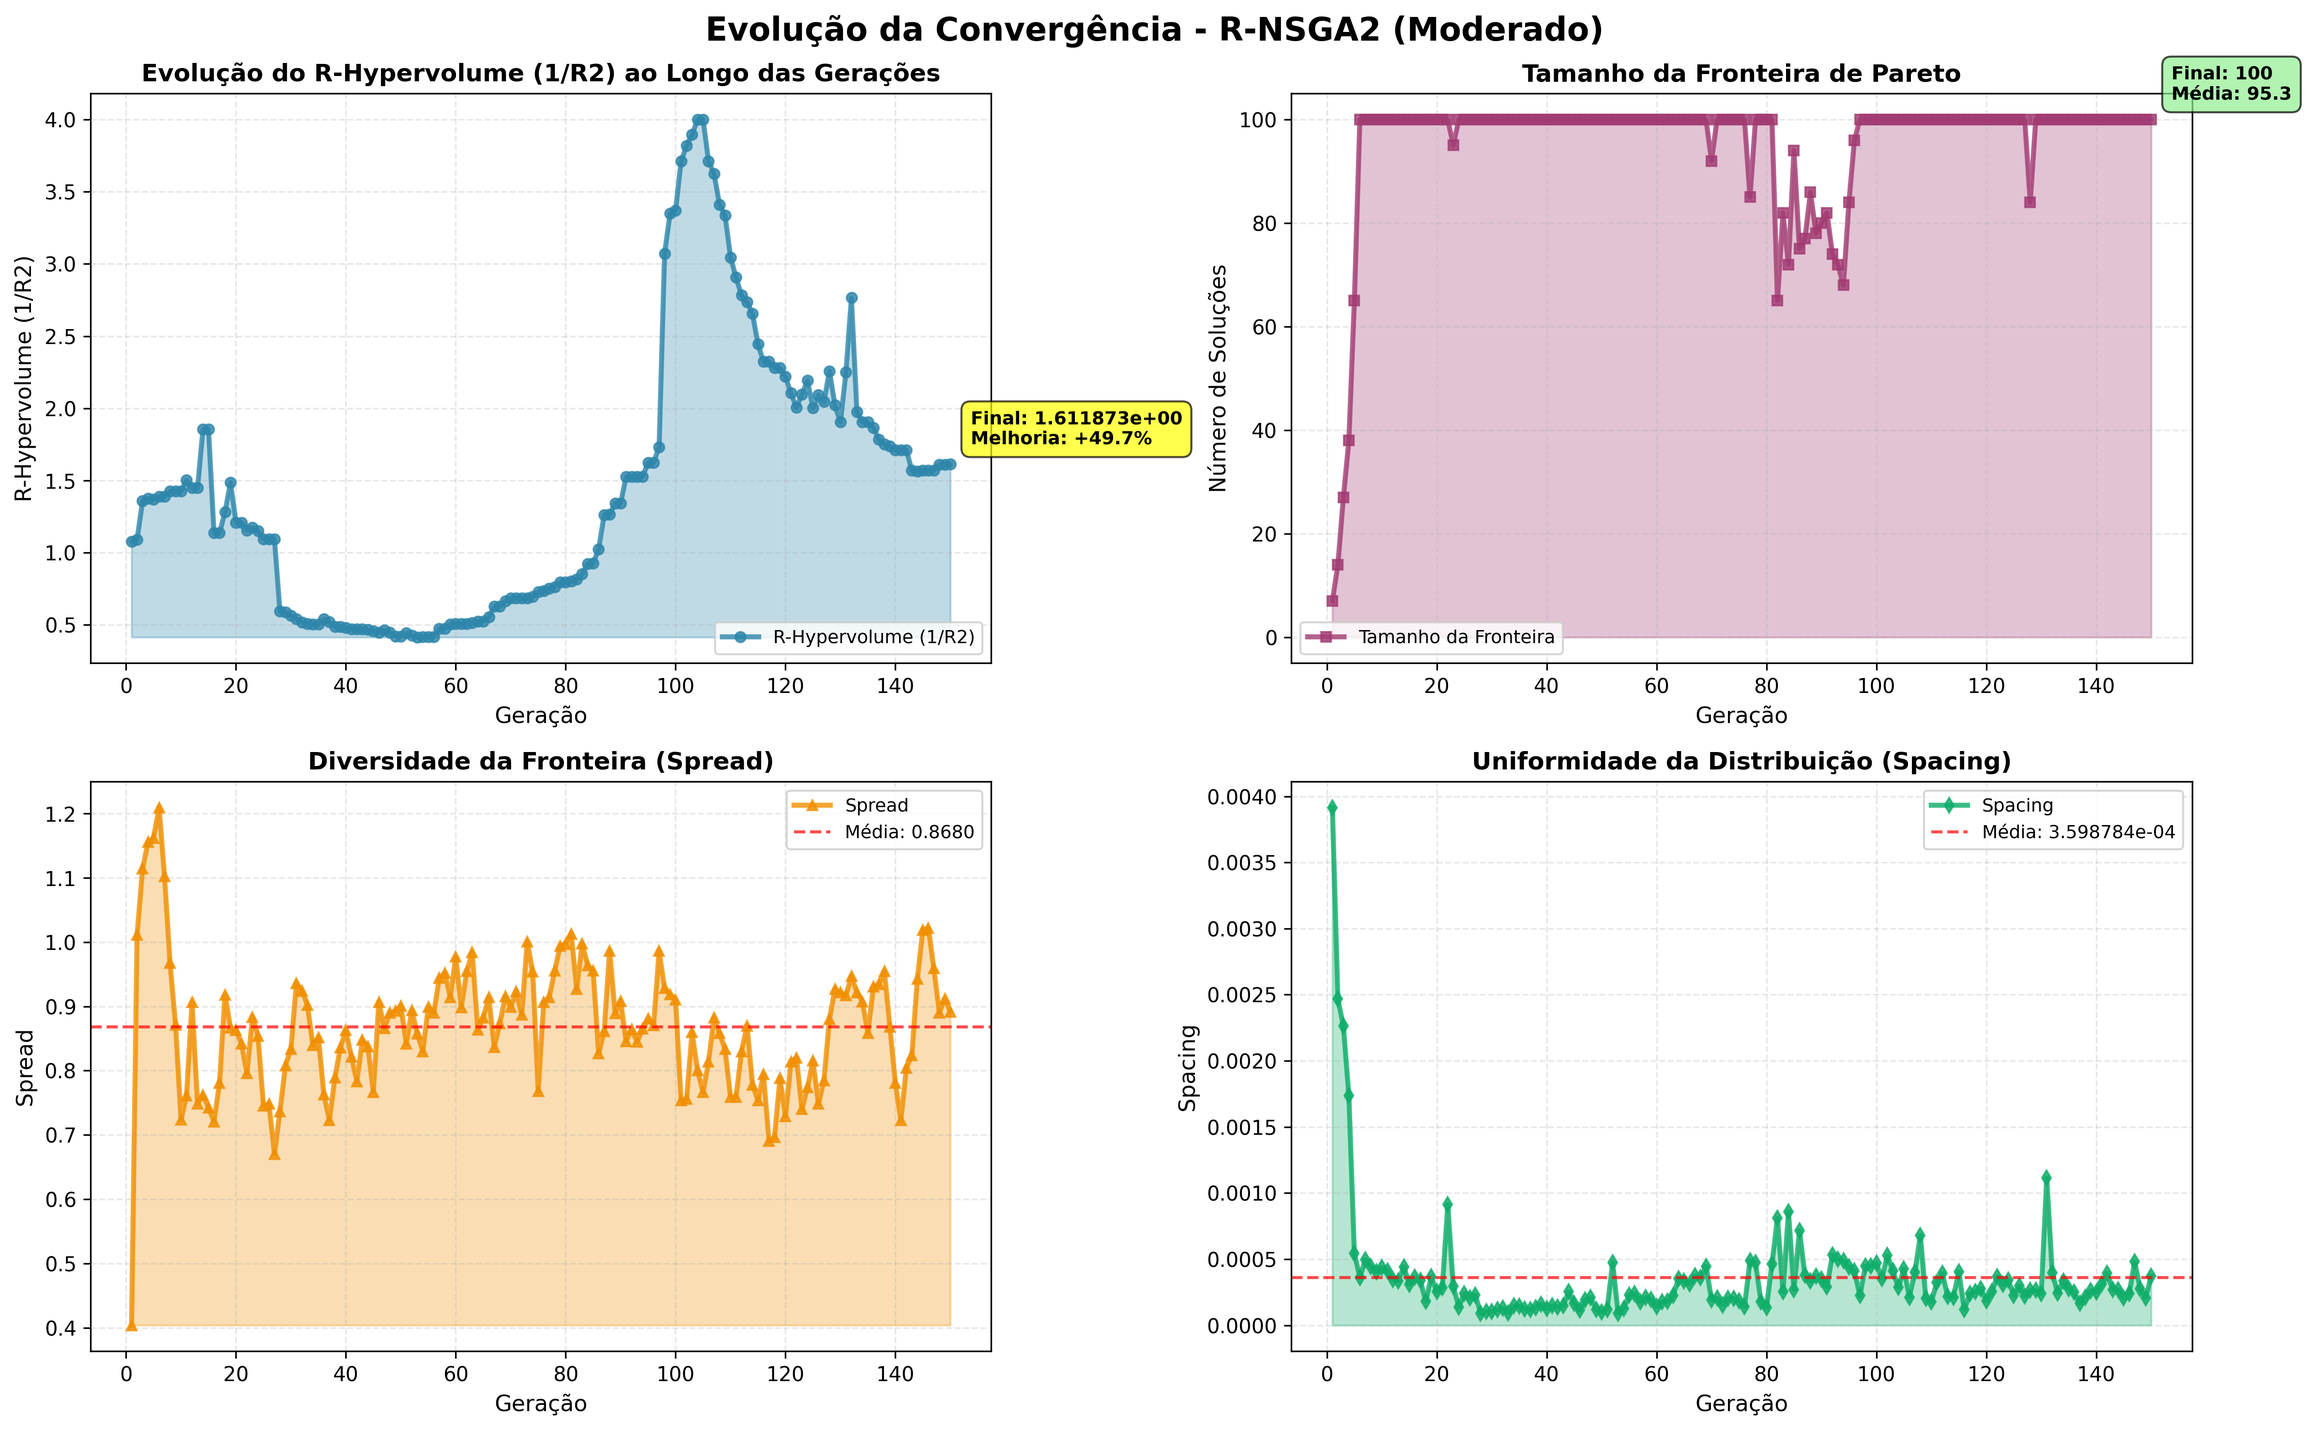
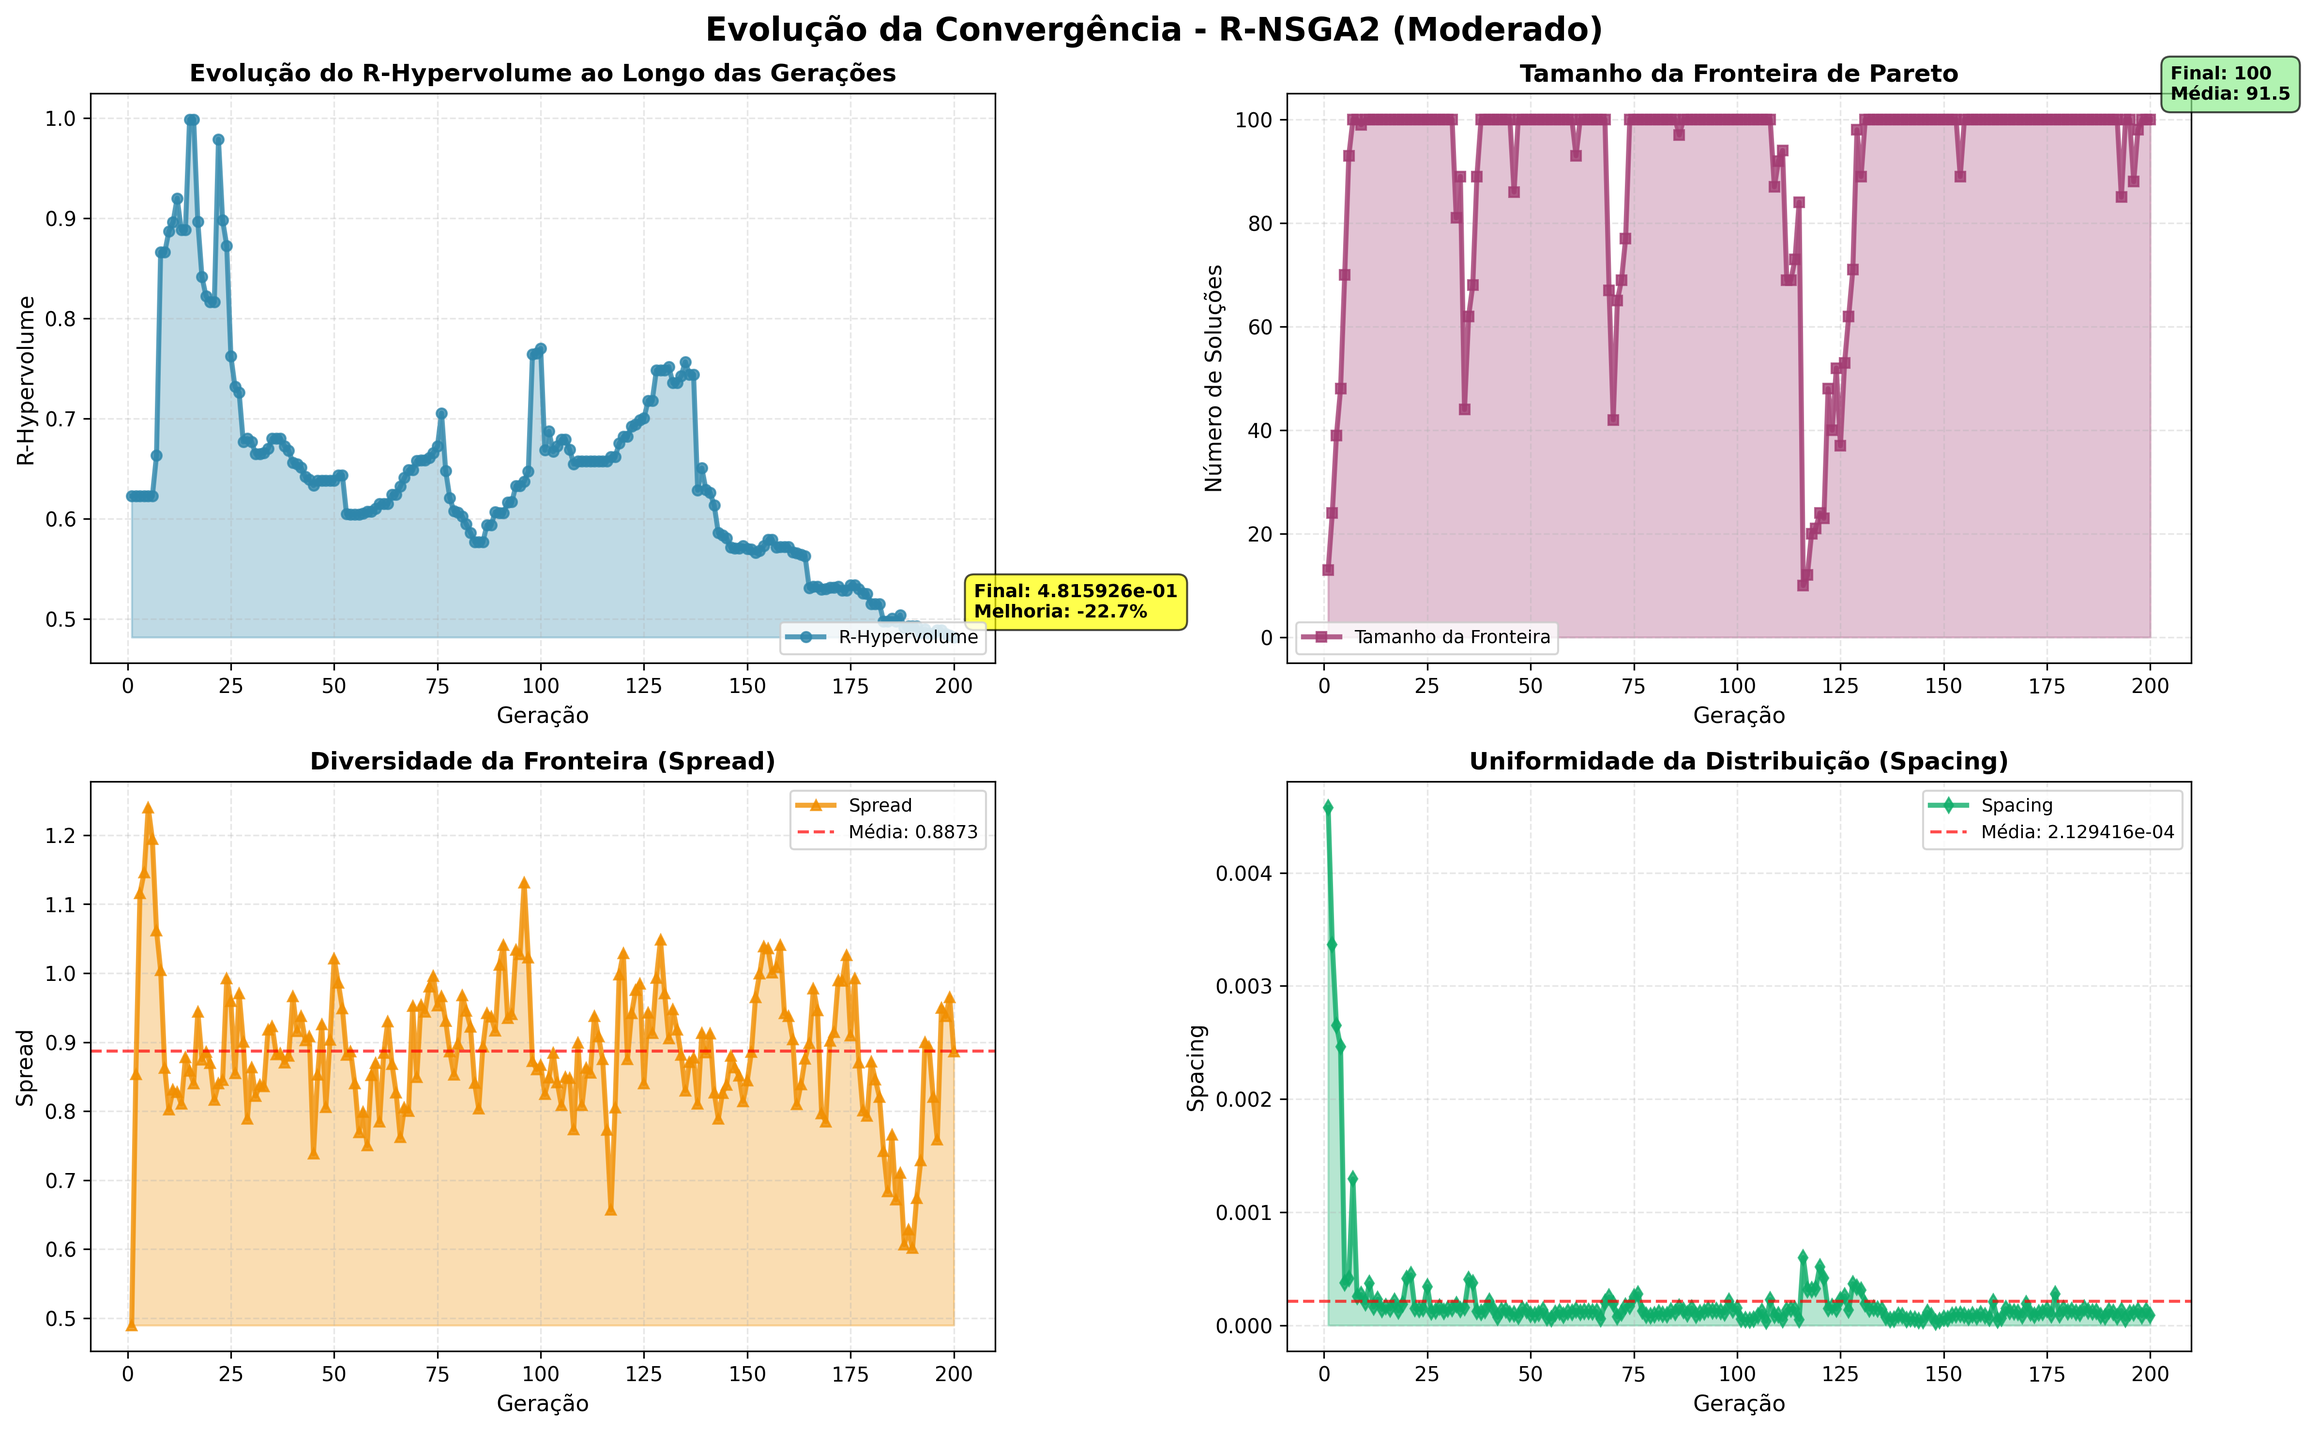
Fix R-Hypervolume normalization and numerical stability

diff --git a/backend/services/agmo/tuning/quality_metrics.py b/backend/services/agmo/tuning/quality_metrics.py
@@ -39,9 +39,13 @@ class QualityMetrics:
                                 reference_points: np.ndarray,
                                 ideal_point: Optional[np.ndarray] = None,
                                 nadir_point: Optional[np.ndarray] = None,
-                                weights: Optional[np.ndarray] = None) -> float:
+                                weights: Optional[np.ndarray] = None,
+                                use_log_transform: bool = True) -> float:
         """
         Calcula o R-Hypervolume (R2 indicator) da fronteira de Pareto.
+
+        CORREÇÃO: Implementa normalização consistente entre fronteira e reference points
+        para garantir que ambos estejam no mesmo espaço [0, 1].
 
         O R-HV é apropriado para algoritmos baseados em pontos de referência
         como R-NSGA2, pois mede a qualidade das soluções em relação aos
@@ -51,23 +55,25 @@ class QualityMetrics:
         R2 = 1/|Z| * Σ_{z∈Z} min_{a∈A} ASF(a, z, w)
 
         Onde ASF(a, z, w) = max_i {(a_i - z_i) / w_i}
-        - a: solução (normalizada)
-        - z: ponto de referência (aspiração)
+        - a: solução (normalizada no espaço [0, 1])
+        - z: ponto de referência (aspiração no espaço [0, 1])
         - w: vetor de pesos
 
         IMPORTANTE: Quanto MENOR o R2, MELHOR a qualidade!
-        Mas para consistência com outras métricas onde "maior é melhor",
-        retornamos o INVERSO (1/R2), assim MAIOR valor = MELHOR qualidade.
+        Por padrão, retornamos 1/(1+R2) (transformação sigmoid) para estabilidade.
 
         Args:
             pareto_front: Array (n_solutions, n_objectives) com objetivos
-            reference_points: Array (n_ref_points, n_objectives) com pontos de referência (aspirações)
-            ideal_point: Ponto ideal (valores mínimos). Se None, usa min da fronteira.
-            nadir_point: Ponto nadir (valores máximos). Se None, usa max da fronteira.
+            reference_points: Array (n_ref_points, n_objectives) com pontos de referência (aspirações em [0,1])
+            ideal_point: Ponto ideal FIXO (valores mínimos teóricos). Se None, estima da fronteira.
+            nadir_point: Ponto nadir FIXO (valores máximos teóricos). Se None, estima da fronteira.
             weights: Array (n_objectives,) com pesos para ASF. Se None, usa pesos uniformes.
+            use_log_transform: Se True, usa sigmoid 1/(1+R2); se False, usa 1/R2 (pode ser instável)
 
         Returns:
-            Valor do R-HV = 1/R2 (maior = melhor qualidade, sempre positivo)
+            Valor do R-HV (maior = melhor qualidade)
+            - Se use_log_transform=True: 1/(1+R2) ∈ (0, 1] onde 1.0=perfeito, 0.5=razoável
+            - Se use_log_transform=False: 1/R2 (pode ser muito grande ou instável)
 
         Referências:
             - Hansen & Jaszkiewicz (1998). "Evaluating the quality of approximations to the non-dominated set"
@@ -81,26 +87,39 @@ class QualityMetrics:
             logger.warning("Fronteira de Pareto contém valores NaN ou Inf. R-HV = 0.")
             return 0.0
 
-        # Define ponto ideal (melhor caso)
+        # CORREÇÃO 1: Define ponto ideal/nadir FIXOS
+        # Se fornecidos (recomendado), usa os valores fixos
+        # Caso contrário, estima conservadoramente da fronteira
         if ideal_point is None:
             ideal_point = np.min(pareto_front, axis=0)
-            logger.debug(f"Ideal point calculado: {ideal_point}")
+            logger.debug(f"Ideal point estimado da fronteira: {ideal_point}")
+        else:
+            logger.debug(f"Usando ideal point FIXO fornecido: {ideal_point}")
 
-        # Define ponto nadir (pior caso) - usado para normalização
         if nadir_point is None:
-            nadir_point = np.max(pareto_front, axis=0)
-            logger.debug(f"Nadir point calculado: {nadir_point}")
+            # CORREÇÃO 2: Adiciona margem generosa para acomodar pioras temporárias
+            nadir_point = np.max(pareto_front, axis=0) * 1.5
+            logger.debug(f"Nadir point estimado com margem (max * 1.5): {nadir_point}")
+        else:
+            logger.debug(f"Usando nadir point FIXO fornecido: {nadir_point}")
 
-        # Normaliza fronteira e pontos de referência para [0, 1]
-        # Isso garante que os objetivos tenham a mesma escala
+        # CORREÇÃO 3: Normaliza fronteira para [0, 1] com clipping
         range_vals = nadir_point - ideal_point
         range_vals[range_vals == 0] = 1.0  # Evita divisão por zero
 
         normalized_front = (pareto_front - ideal_point) / range_vals
+        # Clip para garantir [0, 1] mesmo se soluções ultrapassarem nadir
+        normalized_front = np.clip(normalized_front, 0, 1)
 
-        # Pontos de referência já são normalizados (valores entre 0 e 1)
-        # mas vamos garantir que estão no formato correto
+        # CORREÇÃO 4: Reference points JÁ estão em [0, 1] - usar diretamente
+        # Os reference points do R-NSGA2 são definidos no espaço normalizado
+        # onde 0 = melhor possível e 1 = pior possível
         normalized_ref_points = reference_points.copy()
+
+        # Verifica se reference points estão em [0, 1]
+        if not (np.all(normalized_ref_points >= 0) and np.all(normalized_ref_points <= 1)):
+            logger.warning(f"Reference points fora de [0,1]: {normalized_ref_points}")
+            normalized_ref_points = np.clip(normalized_ref_points, 0, 1)
 
         # Se weights não fornecido, usa pesos uniformes
         if weights is None:
@@ -120,8 +139,8 @@ class QualityMetrics:
 
             for solution in normalized_front:
                 # ASF(a, z, w) = max_i {(a_i - z_i) / w_i}
-                # - a_i: valor normalizado da solução no objetivo i
-                # - z_i: ponto de referência (aspiração) no objetivo i
+                # - a_i: valor normalizado da solução no objetivo i [0, 1]
+                # - z_i: ponto de referência (aspiração) no objetivo i [0, 1]
                 # - w_i: peso do objetivo i
                 # Evita divisão por zero nos pesos
                 asf_values = np.where(weights > 1e-6,
@@ -140,16 +159,35 @@ class QualityMetrics:
         logger.debug(f"R2 indicator calculado: {r2:.6e}")
         logger.debug(f"Quanto menor R2, melhor a fronteira em relação aos ref points")
 
-        # Retorna o INVERSO (1/R2) para que "maior seja melhor" (consistente com HV)
-        # Assim, conforme R2 diminui (melhora), 1/R2 aumenta
-        # Proteção contra divisão por zero
-        if r2 < 1e-10:
-            logger.warning(f"R2 muito próximo de zero ({r2:.6e}). Usando R-HV máximo.")
-            r_hv = 1e10  # Valor muito alto indica qualidade perfeita
-        else:
-            r_hv = 1.0 / r2
+        # CORREÇÃO 5: Usa transformação sigmoid para estabilidade e interpretabilidade
+        # Transformação: R-HV = 1 / (1 + R2)
+        #
+        # Propriedades:
+        # - Sempre positiva: R-HV ∈ (0, 1]
+        # - R2 = 0 (perfeito) → R-HV = 1.0
+        # - R2 = 1 (razoável) → R-HV = 0.5
+        # - R2 = ∞ (péssimo) → R-HV → 0
+        # - Monotônica: menor R2 = maior R-HV
+        if use_log_transform:
+            # Transformação sigmoid (padrão)
+            # IMPORTANTE: Não usar max(r2, 0) pois isso zera R2 negativos!
+            # R2 negativo significa soluções muito boas (melhores que ref points)
+            # Usamos abs(r2) para manter a escala mesmo quando super-ótimo
+            r2_adjusted = abs(r2) if r2 < 0 else r2
+            r_hv = 1.0 / (1.0 + r2_adjusted)
 
-        logger.debug(f"R-HV (1/R2): {r_hv:.6e} (quanto maior, melhor)")
+            logger.debug(f"R-HV (sigmoid): R2={r2:.4f} (adjusted={r2_adjusted:.4f}) → R-HV={r_hv:.4f}")
+            if r2 < 0:
+                logger.info(f"⭐ R2 NEGATIVO ({r2:.4f}): Soluções MELHORES que reference points!")
+            logger.debug(f"   Interpretação: 1.0=perfeito, 0.5=razoável, 0.0=péssimo")
+        else:
+            # Inversão tradicional 1/R2 (mantida para compatibilidade)
+            if abs(r2) < 1e-10:
+                logger.warning(f"R2 muito próximo de zero ({r2:.6e}). Usando R-HV máximo.")
+                r_hv = 1e10  # Valor muito alto indica qualidade perfeita
+            else:
+                r_hv = 1.0 / abs(r2)
+            logger.debug(f"R-HV (1/R2): {r_hv:.6e} (quanto maior, melhor)")
 
         return r_hv
 
@@ -426,7 +464,8 @@ class QualityMetrics:
                               reference_points: Optional[np.ndarray] = None,
                               nadir_point: Optional[np.ndarray] = None,
                               weights: Optional[np.ndarray] = None,
-                              use_r_hv: bool = True) -> dict:
+                              use_r_hv: bool = True,
+                              use_log_transform: bool = True) -> dict:
         """
         Calcula todas as métricas de qualidade.
 
@@ -437,6 +476,7 @@ class QualityMetrics:
             nadir_point: Ponto nadir para normalização do R-HV
             weights: Pesos para ASF no cálculo de R-HV
             use_r_hv: Se True e reference_points fornecido, usa R-HV ao invés de HV
+            use_log_transform: Se True, usa sigmoid 1/(1+R2) ∈ (0,1]; se False, usa 1/R2
 
         Returns:
             Dicionário com todas as métricas
@@ -444,7 +484,8 @@ class QualityMetrics:
         # Decide qual métrica de hypervolume usar
         if use_r_hv and reference_points is not None:
             hv_value = self.calculate_r_hypervolume(
-                pareto_front, reference_points, ideal_point, nadir_point, weights
+                pareto_front, reference_points, ideal_point, nadir_point, weights,
+                use_log_transform=use_log_transform
             )
             hv_key = 'r_hypervolume'
         else:
@@ -574,17 +615,19 @@ class ConvergenceTracker:
             # Define ponto nadir FIXO na primeira geração (PIOR CASO) - usado para R-HV
             # CORREÇÃO: Nadir deve ser FIXO, não acumulativo, para evitar regressão do R-HV
             if not self.nadir_point_set:
-                # Adiciona margem de 50% para garantir que o nadir seja pior que qualquer solução
-                self.nadir_point = max_values * 1.5
+                # CORREÇÃO: Adiciona margem GENEROSA (2x) para acomodar pioras temporárias
+                # Isso evita que soluções ultrapassem o nadir durante exploração
+                self.nadir_point = max_values * 2.0
                 self.nadir_point_set = True
                 if self.use_r_hv:
-                    logger.info(f"📍 Ponto nadir FIXO (pior caso gen 0 + 50%): {self.nadir_point}")
+                    logger.info(f"📍 Ponto nadir FIXO (pior caso gen 0 * 2.0): {self.nadir_point}")
                     logger.info(f"   Max da gen 0: {max_values}")
                     logger.info(f"   ⚠  NADIR SERÁ MANTIDO FIXO para evitar regressão do R-HV")
 
             if self.use_r_hv:
                 logger.info(f"   ✅ R-HV: Usando {len(self.reference_points_rnsga2)} pontos de referência do R-NSGA2")
-                logger.info(f"   ✅ R-HV (1/R2) vai CRESCER conforme soluções melhoram em relação aos pontos de referência")
+                logger.info(f"   ✅ R-HV (sigmoid) vai CRESCER conforme soluções melhoram em relação aos pontos de referência")
+                logger.info(f"   ✅ Range: (0, 1] onde 1.0=perfeito, 0.5=razoável, próximo de 0=péssimo")
             else:
                 logger.info(f"   ✅ Box HV: entre ideal {self.ideal_point} e ref {self.reference_point}")
                 logger.info(f"   ✅ HV vai CRESCER conforme ideal_point melhora (diminui)")

diff --git a/backend/services/agmo/tuning/convergence_visualization.py b/backend/services/agmo/tuning/convergence_visualization.py
@@ -39,7 +39,7 @@ def plot_convergence_evolution(history: Dict,
 
     # Identifica qual tipo de hypervolume está sendo usado
     hv_key = 'r_hypervolume' if 'r_hypervolume' in history else 'hypervolume'
-    hv_label = 'R-Hypervolume (1/R2)' if hv_key == 'r_hypervolume' else 'Hypervolume'
+    hv_label = 'R-Hypervolume' if hv_key == 'r_hypervolume' else 'Hypervolume'
 
     # Cria figura com subplots
     fig, axes = plt.subplots(2, 2, figsize=figsize)
@@ -179,7 +179,7 @@ def plot_hypervolume_only(history: Dict,
 
     # Identifica qual tipo de hypervolume está sendo usado
     hv_key = 'r_hypervolume' if 'r_hypervolume' in history else 'hypervolume'
-    hv_label = 'R-Hypervolume (1/R2)' if hv_key == 'r_hypervolume' else 'Hypervolume'
+    hv_label = 'R-Hypervolume' if hv_key == 'r_hypervolume' else 'Hypervolume'
 
     hv_values = history[hv_key]
 
@@ -283,7 +283,7 @@ def plot_multiple_runs_comparison(histories: List[Dict],
 
     # Identifica qual tipo de hypervolume está sendo usado
     hv_key = 'r_hypervolume' if 'r_hypervolume' in histories[0] else 'hypervolume'
-    hv_label = 'R-Hypervolume (1/R2)' if hv_key == 'r_hypervolume' else 'Hypervolume'
+    hv_label = 'R-Hypervolume' if hv_key == 'r_hypervolume' else 'Hypervolume'
 
     # Cores para cada execução
     colors = ['#2E86AB', '#A23B72', '#F18F01', '#0EAD69', '#C73E1D', '#6A4C93']
@@ -349,7 +349,7 @@ def print_convergence_summary(history: Dict):
 
     # Identifica qual tipo de hypervolume está sendo usado
     hv_key = 'r_hypervolume' if 'r_hypervolume' in history else 'hypervolume'
-    hv_label = 'R-Hypervolume (1/R2)' if hv_key == 'r_hypervolume' else 'Hypervolume'
+    hv_label = 'R-Hypervolume' if hv_key == 'r_hypervolume' else 'Hypervolume'
 
     generations = history['generation']
     hv_values = history[hv_key]

diff --git a/backend/services/agmo/tuning/exemplo_convergence_tracking.py b/backend/services/agmo/tuning/exemplo_convergence_tracking.py
@@ -68,9 +68,9 @@ def exemplo_simples():
 
     result = service.optimize(
         population_size=100,
-        generations=150,
+        generations=200,
         convergence_tracker=tracker,  # Passa o tracker para o serviço
-        max_assets=max_assets,
+        max_assets=20,
         use_optimal_config=False
     )
 
